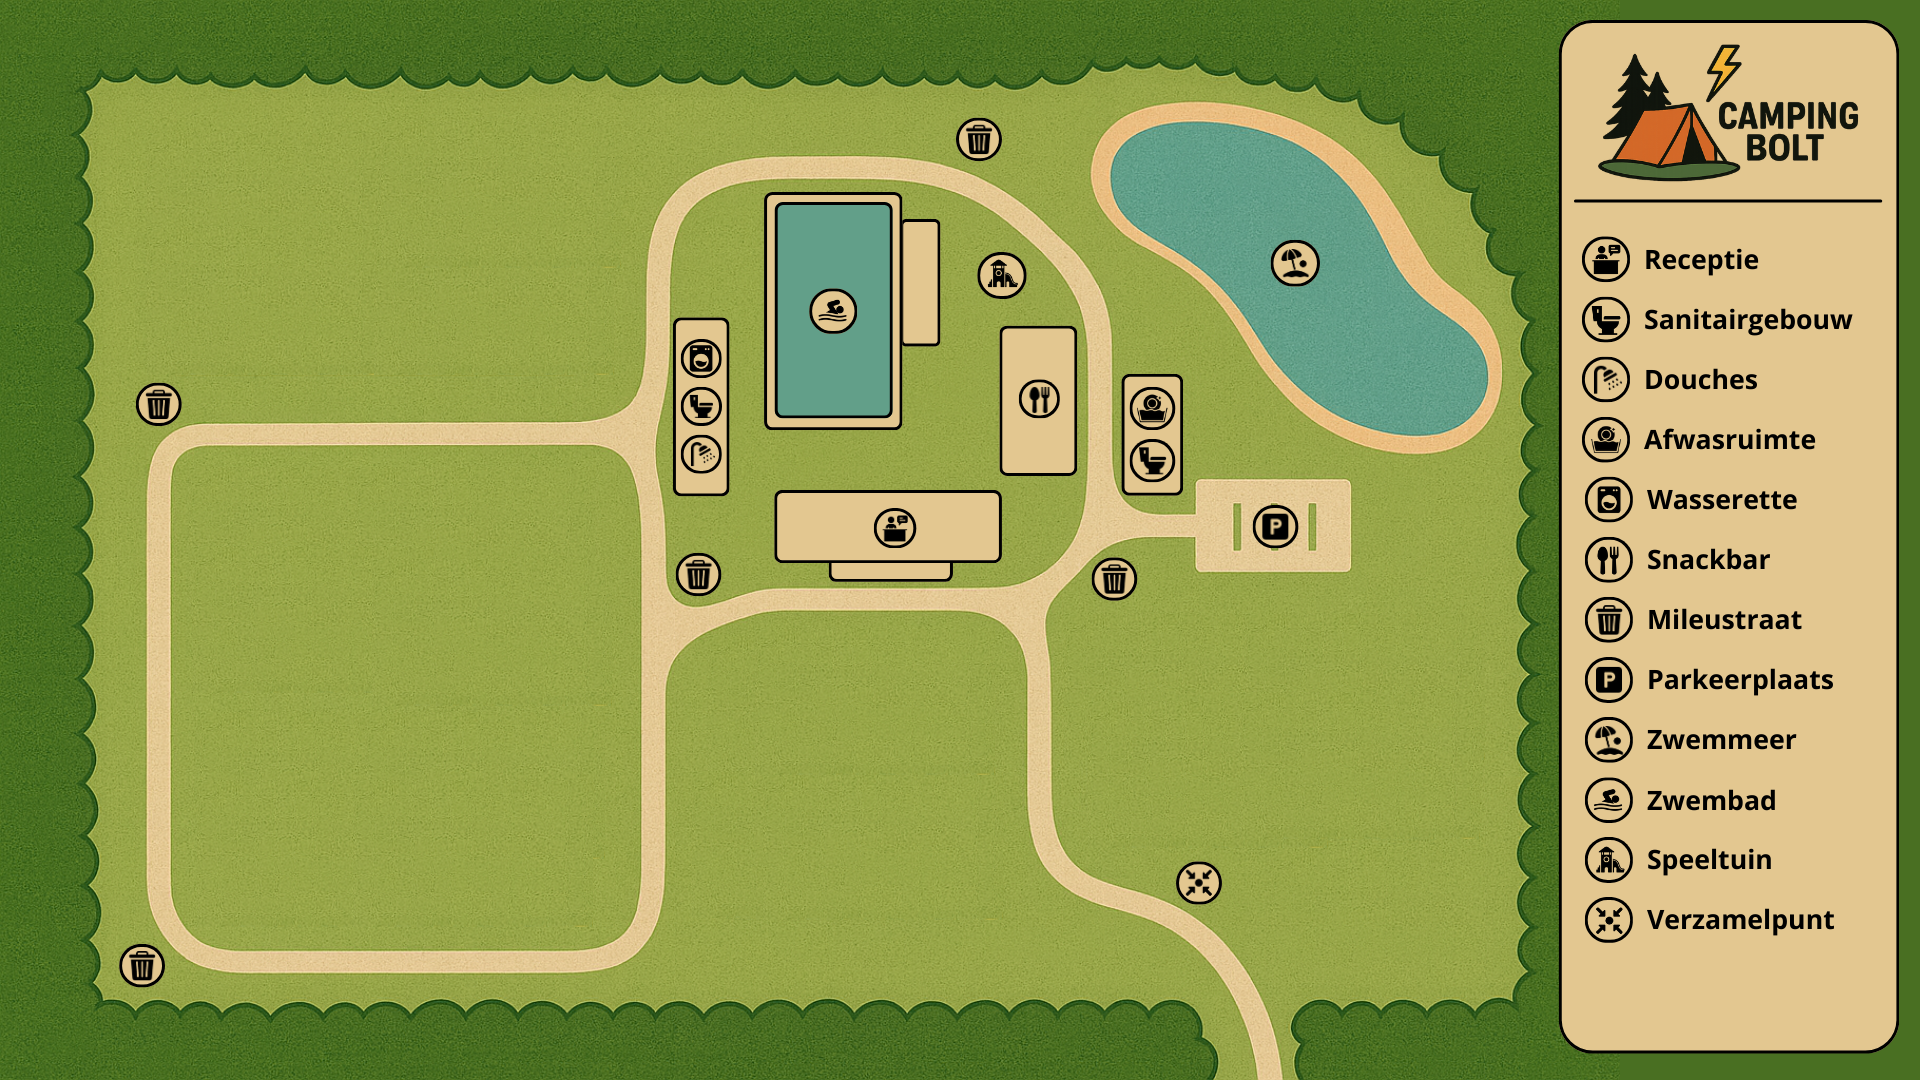
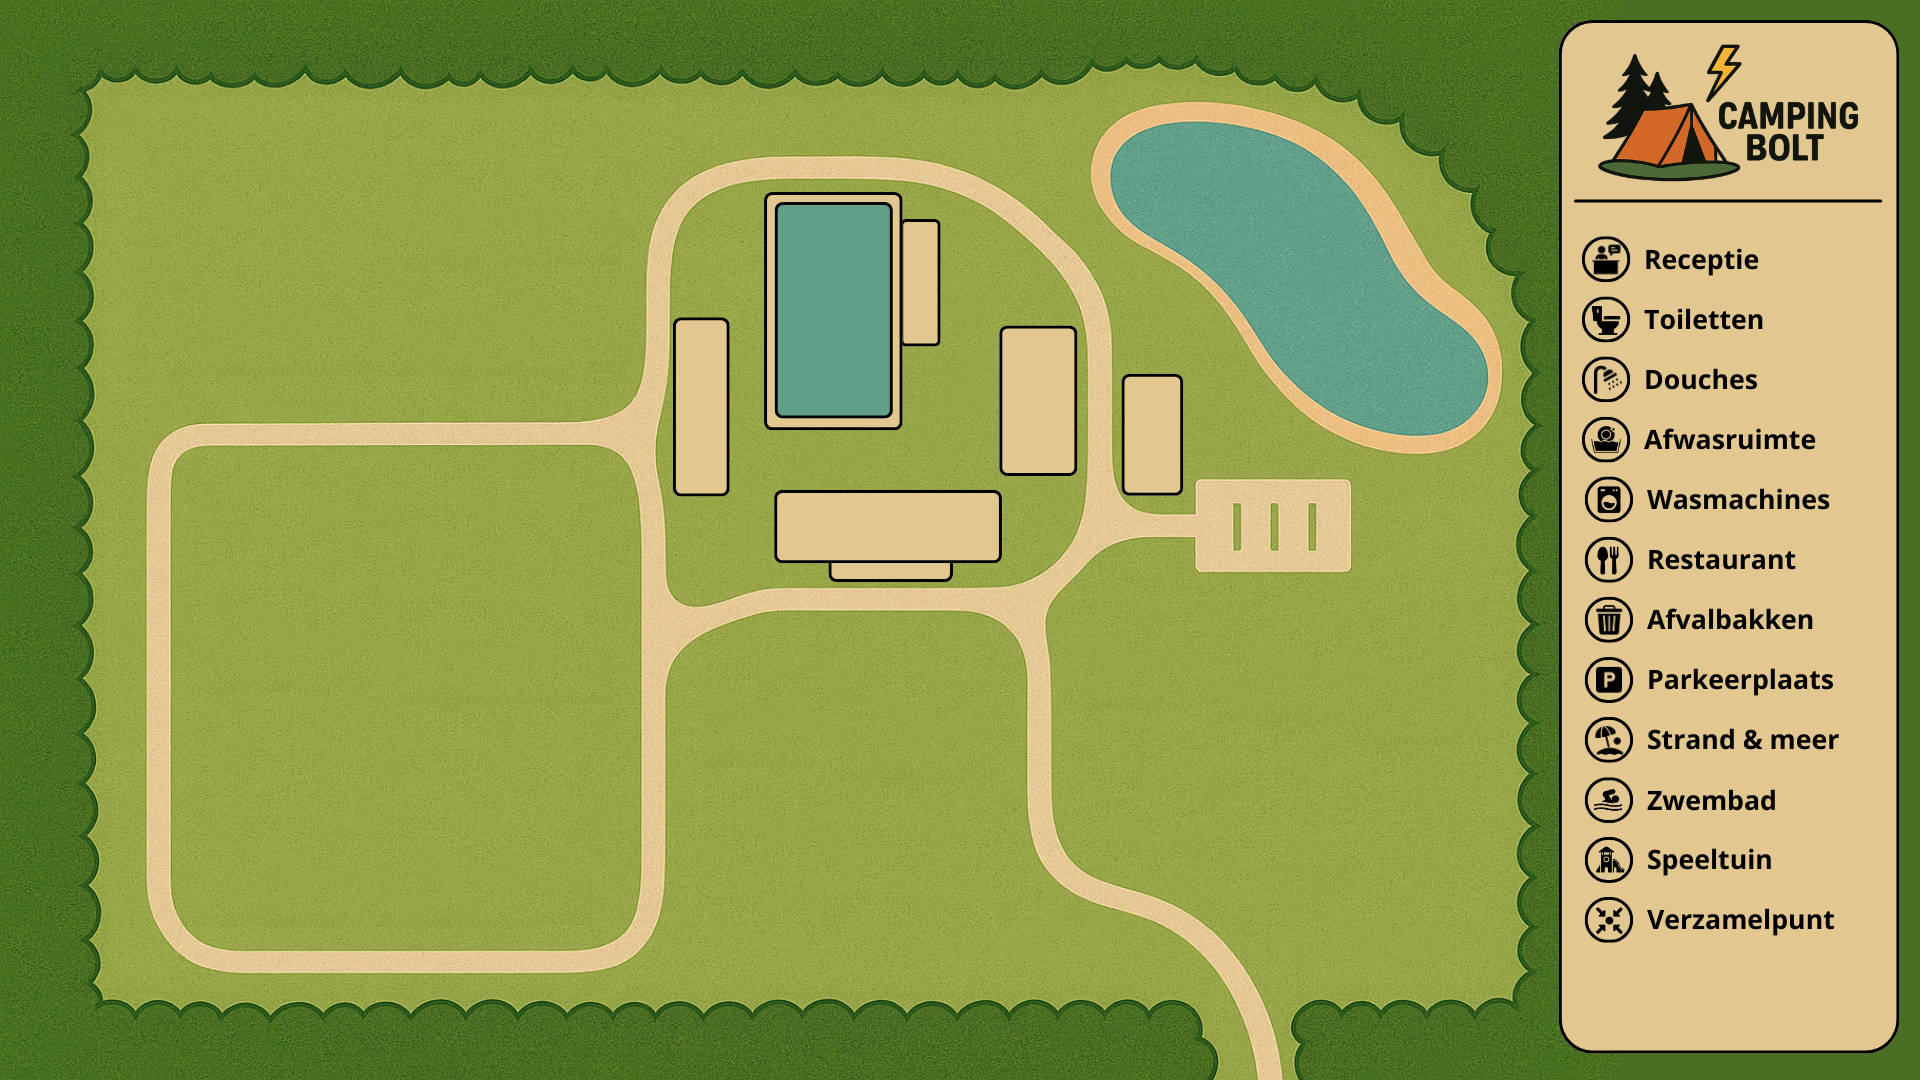
Faciliteiten toegevoegd aan plattegrond
Heb de faciliteiten werkend op de kaart gekregen, database geupdated en hover animaties toegevoegd.

- Plattegrond:
   - Interactieve faciliteit-icoontjes toegevoegd aan de kaart
   - FaciliteitButtonStyle aangemaakt in XAML voor hover-effecten en om de standaard grijze achtergrond te voorkomen
   - CreateImageButton geïmplementeerd met async click afhandeling zodat de knop vergroot blijft zolang de popup open is
   - PlattegrondView.xaml.cs uitgebreid met AddFaciliteitButtons logica

- ViewModel & Services
   - IFaciliteitService geïnjecteerd in PlattegrondViewModel om data op te halen
   - ShowFaciliteitInfo command toegevoegd om details te tonen in een popup
   - LoadAreas uitgebreid om de nieuwe Faciliteiten lijst te vullen

- Algemeen
   - Variabelenamen in PlattegrondView duidelijker gemaakt (zoals xposition, yposition)
   - Database uitgebreid en in de commit toegevoegd

diff --git a/Camping.App/Views/PlattegrondView.xaml b/Camping.App/Views/PlattegrondView.xaml
@@ -2,6 +2,50 @@
              xmlns:x="http://schemas.microsoft.com/winfx/2009/xaml"
              x:Class="Camping.App.Views.PlattegrondView">
 
+    <ContentPage.Resources>
+        <!-- Styling voor de faciliteiten knoppen -->
+        <Style x:Key="FaciliteitButtonStyle" TargetType="Button">
+            <Setter Property="BackgroundColor" Value="Transparent" />
+            <Setter Property="BorderColor" Value="Transparent" />
+            <Setter Property="BorderWidth" Value="0" />
+            <Setter Property="Padding" Value="0" />
+
+            <Setter Property="VisualStateManager.VisualStateGroups">
+                <VisualStateGroupList>
+                    <VisualStateGroup x:Name="CommonStates">
+                        <!-- Standaard -->
+                        <VisualState x:Name="Normal">
+                            <VisualState.Setters>
+                                <Setter Property="BackgroundColor" Value="Transparent" />
+                            </VisualState.Setters>
+                        </VisualState>
+                        <!-- Uitgeschakeld (Nog niet echt van toepassing) -->
+                        <VisualState x:Name="Disabled">
+                            <VisualState.Setters>
+                                <Setter Property="BackgroundColor" Value="Transparent" />
+                                <Setter Property="BorderColor" Value="Transparent" />
+                            </VisualState.Setters>
+                        </VisualState>
+                        <!-- CLick -->
+                        <VisualState x:Name="Pressed">
+                            <VisualState.Setters>
+                                <Setter Property="BackgroundColor" Value="Transparent" />
+                                <Setter Property="Scale" Value="1.15" />
+                            </VisualState.Setters>
+                        </VisualState>
+                        <!-- Hover -->
+                        <VisualState x:Name="PointerOver">
+                            <VisualState.Setters>
+                                <Setter Property="BackgroundColor" Value="Transparent" />
+                                <Setter Property="Scale" Value="1.15" />
+                            </VisualState.Setters>
+                        </VisualState>
+                    </VisualStateGroup>
+                </VisualStateGroupList>
+            </Setter>
+        </Style>
+    </ContentPage.Resources>
+
     <!-- Grid maken waarin alle images geplaatst worden -->
     <Grid HorizontalOptions="Fill" VerticalOptions="Fill">
 

diff --git a/Camping.App/Views/PlattegrondView.xaml.cs b/Camping.App/Views/PlattegrondView.xaml.cs
@@ -2,6 +2,7 @@ using System.Windows.Input;
 using Camping.App.ViewModels;
 using Camping.Core.Models;
 using Microsoft.Maui.Layouts;
+using CommunityToolkit.Mvvm.Input;
 
 namespace Camping.App.Views;
 
@@ -62,6 +63,7 @@ public partial class PlattegrondView : ContentPage
         ButtonOverlayLayout.Children.Clear();
 
         AddVeldButtons(innerWidth, innerHeight, scaledFontSize);
+        AddFaciliteitButtons(innerWidth, innerHeight);
         AddKalenderButton(innerWidth, innerHeight, scaledFontSize);
     }
 
@@ -128,6 +130,29 @@ public partial class PlattegrondView : ContentPage
         }
     }
 
+    private void AddFaciliteitButtons(double innerWidth, double innerHeight)
+    {
+        // De faciliteiten uit het ViewModel genereren
+        foreach (Faciliteit faciliteit in _viewModel.Faciliteiten)
+        {
+            Button btn = CreateImageButton(
+                imageSource: faciliteit.ImageName,
+                command: _viewModel.ShowFaciliteitInfoCommand,
+                commandParameter: faciliteit
+            );
+
+            double xposition = faciliteit.XPosition * innerWidth;
+            double yposition = faciliteit.YPosition * innerHeight;
+            double width = faciliteit.Width * innerWidth;
+            double height = faciliteit.Height * innerHeight;
+
+            AbsoluteLayout.SetLayoutFlags(btn, AbsoluteLayoutFlags.None);
+            AbsoluteLayout.SetLayoutBounds(btn, new Rect(xposition, yposition, width, height));
+
+            ButtonOverlayLayout.Children.Add(btn);
+        }
+    }
+
     private void AddKalenderButton(double innerWidth, double innerHeight, double fontSize)
     {
         // Kalender Knop
@@ -165,5 +190,37 @@ public partial class PlattegrondView : ContentPage
             MinimumWidthRequest = 0,
             Padding = 0
         };
+    }
+
+    private Button CreateImageButton(string imageSource, ICommand command, object? commandParameter = null)
+    {
+        Button btn = new Button
+        {
+            ImageSource = imageSource,
+            Style = (Style)Resources["FaciliteitButtonStyle"],
+            MinimumHeightRequest = 0,
+            MinimumWidthRequest = 0,
+        };
+
+        btn.Clicked += async (s, e) =>
+        {
+            // Groter worden bij klik
+            await btn.ScaleTo(1.15, 100, Easing.SpringOut);
+
+            // Command uitvoeren en wachten tot popup sluit
+            if (command is IAsyncRelayCommand asyncCommand)
+            {
+                await asyncCommand.ExecuteAsync(commandParameter);
+            }
+            else
+            {
+                command.Execute(commandParameter);
+            }
+
+            // Terugschalen als popup weg is
+            await btn.ScaleTo(1.0, 100, Easing.SpringIn);
+        };
+
+        return btn;
     }
 }

diff --git a/Camping.App/ViewModels/PlattegrondViewModel.cs b/Camping.App/ViewModels/PlattegrondViewModel.cs
@@ -10,13 +10,21 @@ namespace Camping.App.ViewModels;
 public partial class PlattegrondViewModel : ObservableObject
 {
     private readonly IVeldService _veldService;
+    private readonly IFaciliteitService _faciliteitService;
     private readonly IReservatieDataService _reservatieDataService;
     private readonly IServiceProvider _serviceProvider;
-    public ObservableCollection<Veld> Velden { get; } = new();
 
-    public PlattegrondViewModel(IVeldService veldService, IReservatieDataService reservatieService, IServiceProvider serviceProvider)
+    public ObservableCollection<Veld> Velden { get; } = new();
+    public ObservableCollection<Faciliteit> Faciliteiten { get; } = new();
+
+    public PlattegrondViewModel(
+        IVeldService veldService,
+        IFaciliteitService faciliteitService,
+        IReservatieDataService reservatieService,
+        IServiceProvider serviceProvider)
     {
         _veldService = veldService;
+        _faciliteitService = faciliteitService;
         _reservatieDataService = reservatieService;
         _serviceProvider = serviceProvider;
         LoadAreas();
@@ -25,11 +33,17 @@ public partial class PlattegrondViewModel : ObservableObject
     private void LoadAreas()
     {
         Velden.Clear();
-        // Aanname dat GetAll een IEnumerable of List teruggeeft
         IEnumerable<Veld> velden = _veldService.GetAll();
-        foreach (Veld v in velden)
+        foreach (Veld veld in velden)
         {
-            Velden.Add(v);
+            Velden.Add(veld);
+        }
+
+        Faciliteiten.Clear();
+        IEnumerable<Faciliteit> faciliteiten = _faciliteitService.GetFaciliteiten();
+        foreach (Faciliteit faciliteit in faciliteiten)
+        {
+            Faciliteiten.Add(faciliteit);
         }
     }
 
@@ -60,8 +74,16 @@ public partial class PlattegrondViewModel : ObservableObject
     private async Task OpenKalender()
     {
         KalenderView kalenderView = _serviceProvider.GetRequiredService <Views.KalenderView>();
-
-
         await Application.Current.MainPage.Navigation.PushModalAsync(kalenderView);
+    }
+
+    [RelayCommand]
+    private async Task ShowFaciliteitInfo(Faciliteit faciliteit)
+    {
+        // Simpele popup met info
+        await Application.Current.MainPage.DisplayAlert(
+            faciliteit.Name,
+            faciliteit.Description,
+            "Sluiten");
     }
 }
